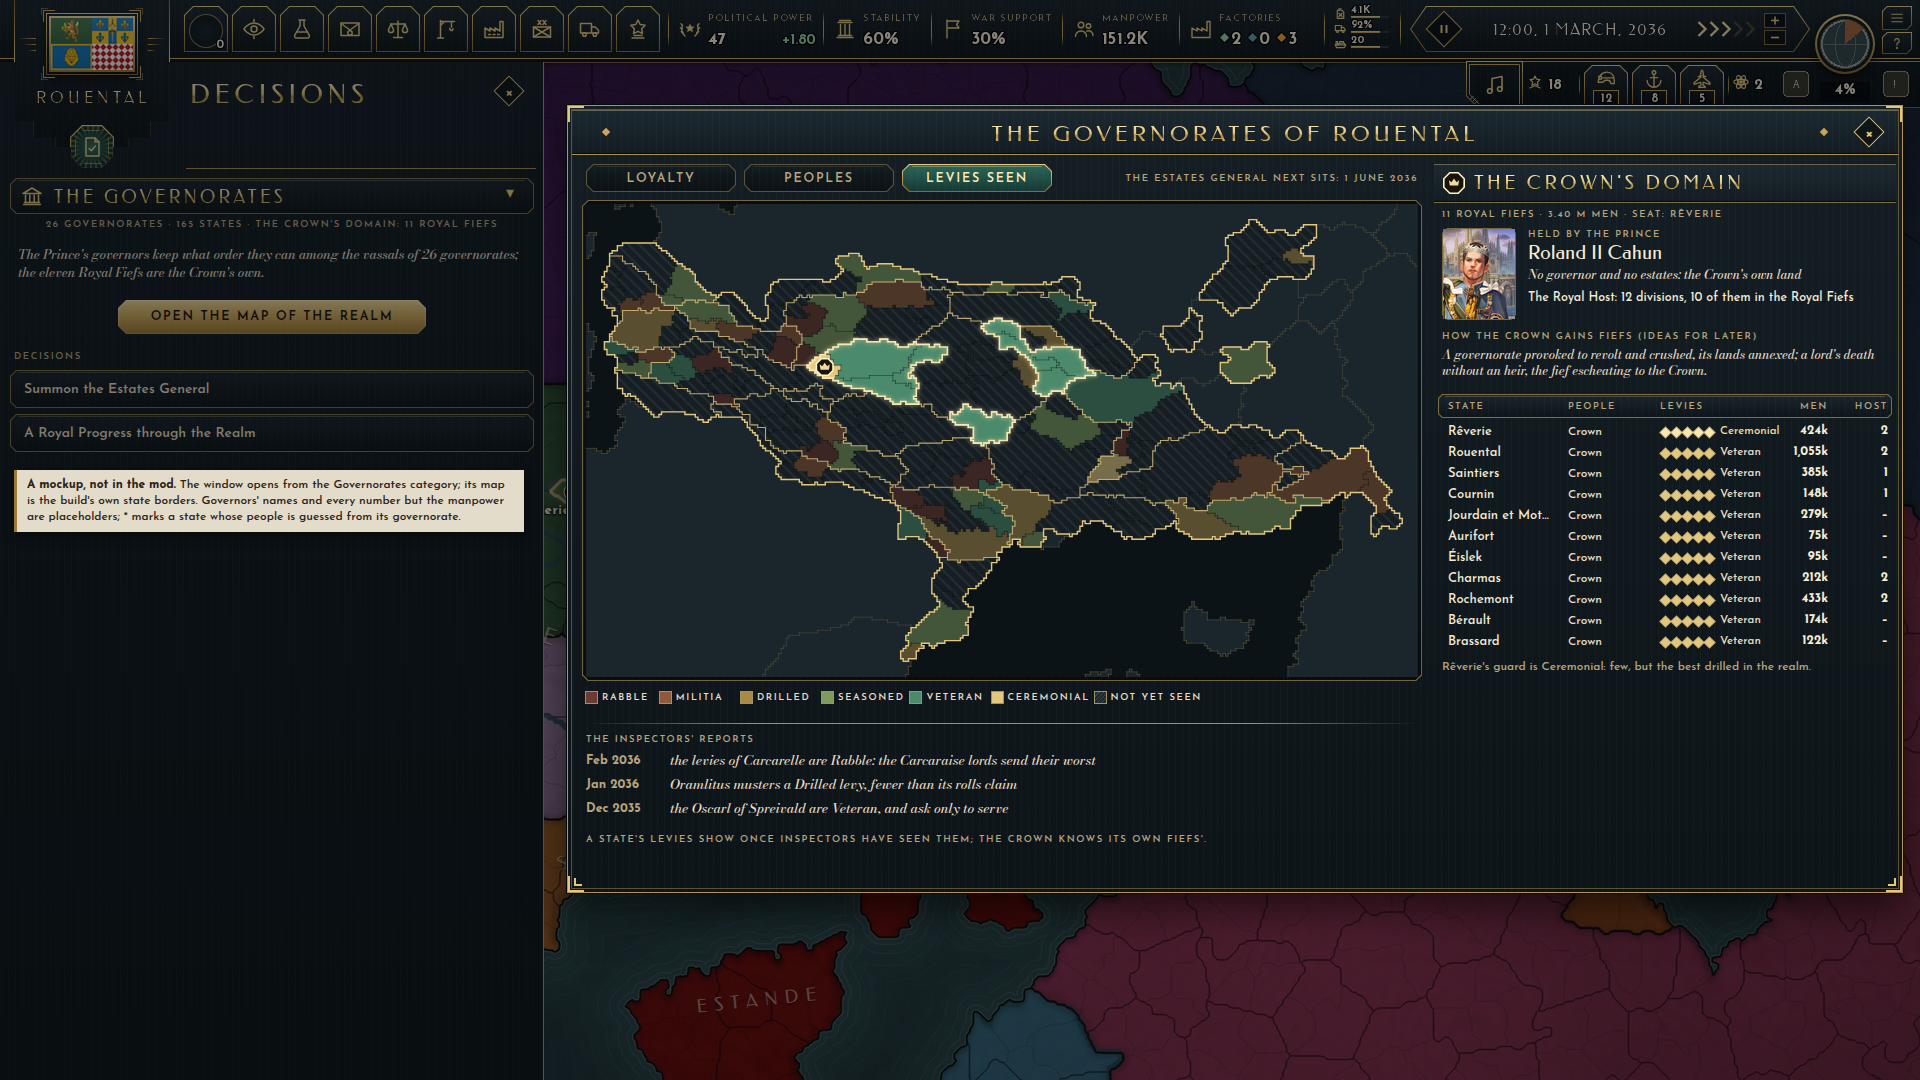
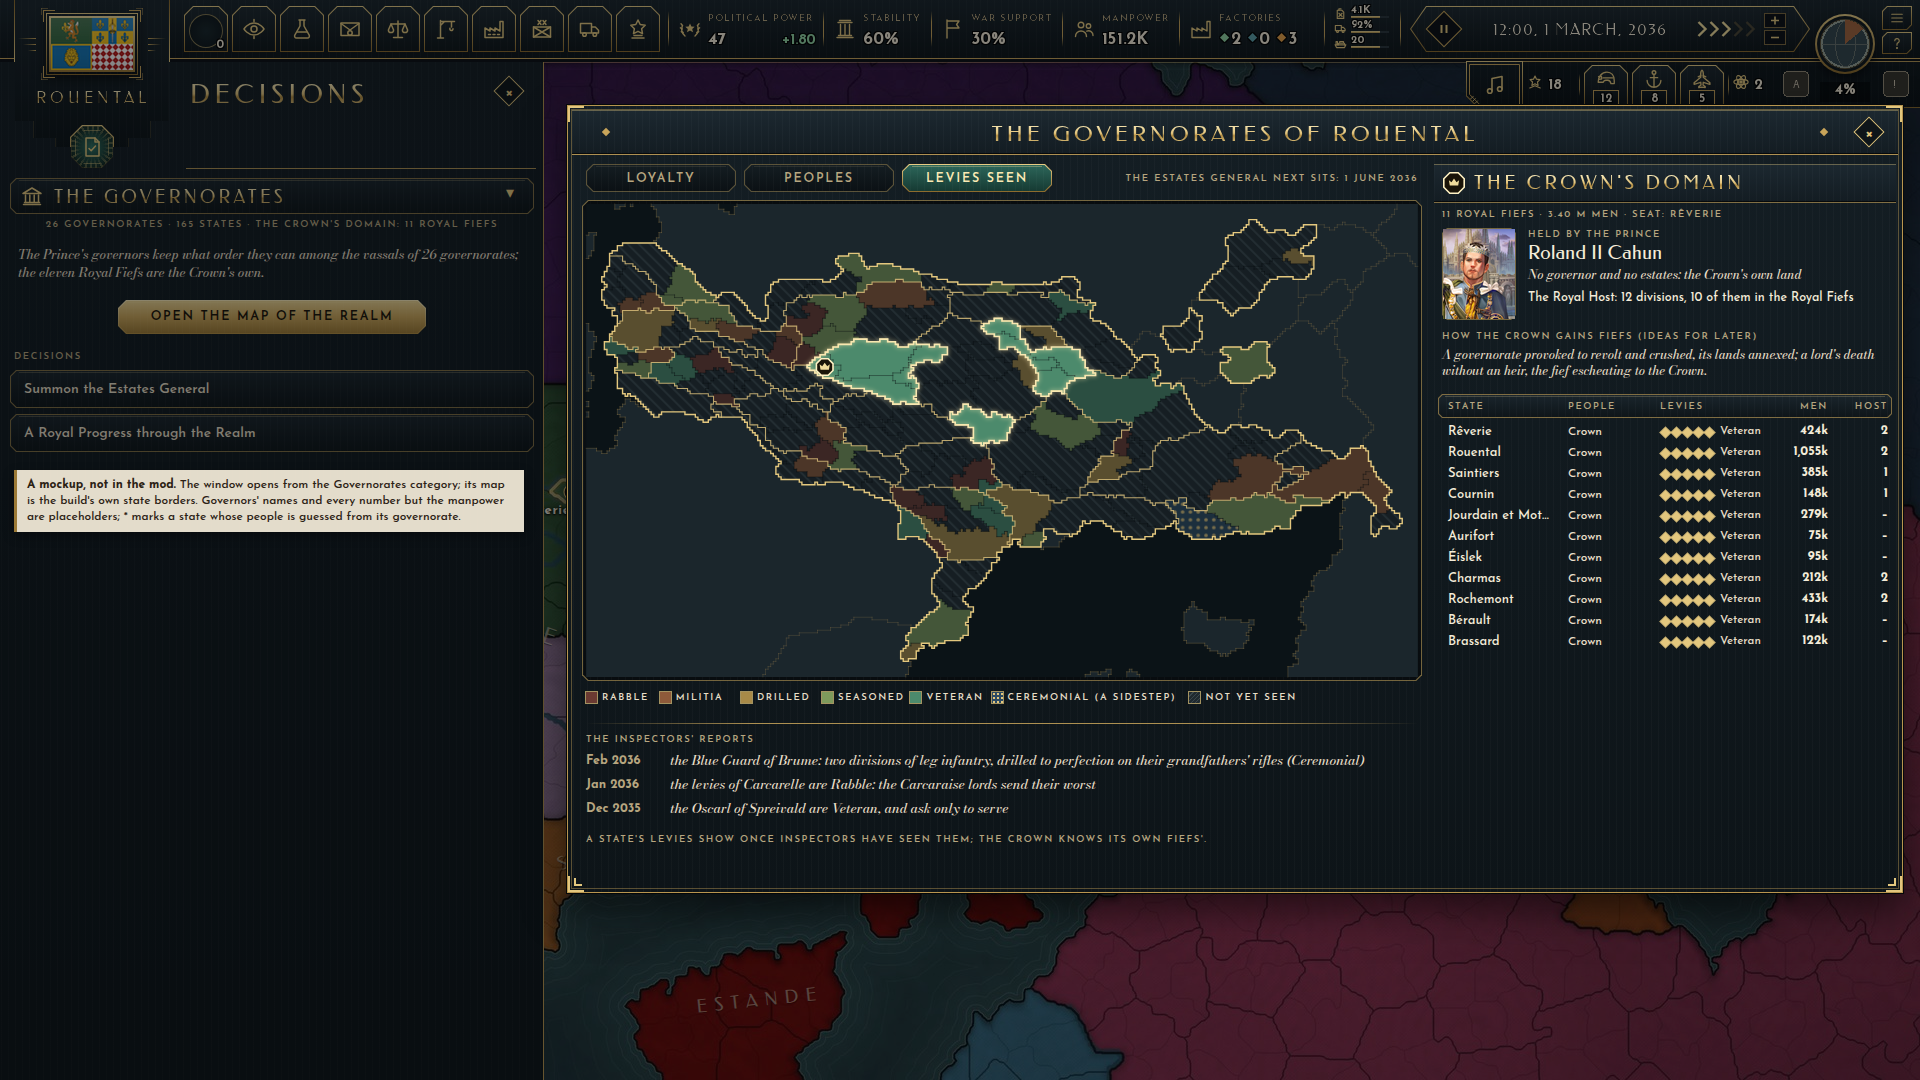
Governorates: the Nataine, the Natin, ceremonial corps as a sidestep (the Blue Guard of Brume)
The Nataine proud and prickly (-10 in the mockups' sample loyalty), the
Chatois descended from Natin slaves, and a ceremonial corps a sidestep from
the levy ladder: few, elite-trained, poorly equipped. A fourth window mockup,
Graisivaudan inspected, Grand Brume's Blue Guard.

Claude-Session: https://claude.ai/code/session_01TG83F4TvroUcXdi7eqNhMG

diff --git a/deco_ui/art/proposals/governorates/make2.py b/deco_ui/art/proposals/governorates/make2.py
@@ -9,7 +9,9 @@ Three screens at 1920 x 1080: the window opened from the decisions tab over the 
 state borders (realm.py), seen three ways (loyalty, peoples, the levies the inspectors have seen):
   governorates_window_carcarelle.png   loyalty; Carcarelle selected (the Carcaraise, Defiant; two states inspected)
   governorates_window_crepuscule.png   peoples; Crépuscule selected (governed by its own Prince, by law)
-  governorates_window_crown.png        levies; the Crown's Domain selected (Rêverie's ceremonial guard)
+  governorates_window_graisivaudan.png levies; Graisivaudan selected, inspected throughout (Grand Brume's Blue Guard:
+                                       a ceremonial corps, a sidestep from the ladder)
+  governorates_window_crown.png        levies; the Crown's Domain selected
 Not in the mod; governors' names and every number but the manpower are placeholders.
 
     CHROMIUM_PATH=/opt/pw-browsers/chromium python3 make2.py   (after a build: reads build/valsora_test)
@@ -84,7 +86,9 @@ def legend(lens, y):
     elif lens == "peoples":
         items = [(v[1], v[0]) for v in RM.PEOPLES.values()]
     else:
-        items = list(zip(RM.LEVY_COLOURS, RM.LEVY)) + [("repeating-linear-gradient(-45deg,#3A464C 0 .8px,#20292E .8px 3px)", "Not yet seen")]
+        items = list(zip(RM.LEVY_COLOURS, RM.LEVY)) + [
+            ("radial-gradient(circle,#E3C77E 0 1.2px,#2C4A63 1.4px) 0 0/4px 4px", "Ceremonial (a sidestep)"),
+            ("repeating-linear-gradient(-45deg,#3A464C 0 .8px,#20292E .8px 3px)", "Not yet seen")]
     if lens != "levies":
         items.append(("repeating-linear-gradient(45deg,#C9A55A 0 1.1px,#6E5626 1.1px 3px)", "Royal Fief"))
     rows = [[]]
@@ -107,8 +111,9 @@ def lower_strip(lens, y):
     out = fade_rule(MX, y, MX + 832)
     if lens == "levies":
         out += label(MX, y + 12, "The inspectors' reports", 9.5)
-        reports = [("Feb 2036", "Carcarelle", "the levies of Carcarelle are Rabble: the Carcaraise lords send their worst"),
-                   ("Jan 2036", "Oramlitus", "Oramlitus musters a Drilled levy, fewer than its rolls claim"),
+        reports = [("Feb 2036", "Grand Brume", "the Blue Guard of Brume: two divisions of leg infantry, drilled to perfection "
+                    "on their grandfathers' rifles (Ceremonial)"),
+                   ("Jan 2036", "Carcarelle", "the levies of Carcarelle are Rabble: the Carcaraise lords send their worst"),
                    ("Dec 2035", "Spreivald", "the Oscarl of Spreivald are Veteran, and ask only to serve")]
         for i, (d, where, s) in enumerate(reports):
             out += value(MX, y + 32 + i * 24, d, 12.5, LABEL, w=80) + text(MX + 84, y + 31 + i * 24, s, 13.5, CREAM2,
@@ -207,10 +212,13 @@ def states_table(sids, y, picked, sel_known, kind="Vassals"):
         p = P[sid]
         pn = RM.PEOPLES[p][0] if p in RM.PEOPLES else "Crown"
         out += text(CX + 126, y + 4, pn + ("*" if sid in guessed else ""), 12, CREAM2 if not lit else col, w=90)
-        if RM.inspected(sid, sel_known):
+        if RM.inspected(sid, sel_known) and name in RM.CEREMONIAL:
+            out += box(CX + 218, y + 1, 104, 17, "box-shadow:inset 0 0 0 1px #E3C77E;background:#1E3446")
+            out += text(CX + 218, y + 4, "Ceremonial", 11.5, "#F1DC9C", w=104, align="center", font="fed", track=.1, caps=True)
+        elif RM.inspected(sid, sel_known):
             q = RM.levy(sid)
-            out += M.pips(CX + 220, y + 7, min(q, 4) + 1, lit=("#F8E7B0" if q == 5 else "#E3C77E"))
-            out += text(CX + 278, y + 4, RM.LEVY[q], 11.5, "#F1DC9C" if q == 5 else (CREAM2 if not lit else col), w=60)
+            out += M.pips(CX + 220, y + 7, q + 1)
+            out += text(CX + 278, y + 4, RM.LEVY[q], 11.5, CREAM2 if not lit else col, w=60)
         else:
             out += text(CX + 220, y + 4, "Unknown", 12, "rgba(183,166,128,.7)", w=100, font="bod", weight=500)
         out += value(CX + 330, y + 3, f"{st[sid]['manpower'] / 1000:,.0f}k", 12.5, col, w=56, align="right")
@@ -247,6 +255,14 @@ def card_governorate(g, picked, known):
     out += peoples_row(G, y + 80)
     t, y = states_table(G["states"], y + 122, picked, known)
     out += t
+    for sid in G["states"]:
+        name = R["st"][sid]["name"]
+        if name in RM.CEREMONIAL and RM.inspected(sid, known):
+            corps, what = RM.CEREMONIAL[name]
+            corps = "the" + corps[3:] if corps.startswith("The ") else corps
+            out += text(CX, y + 4, f"{name} keeps {corps}: {what[0].lower() + what[1:]}.", 12, "#F1DC9C", w=CW, font="bod",
+                        weight=500, lh=1.3)
+            y += 36
     out += actions(y + 8, ("Send Inspectors", "Drill the Levies", "Demand Levies", "Grant Privileges", "Summon the Estates",
                            "Replace the Governor"), lit=("Send Inspectors",))
     return out
@@ -284,7 +300,6 @@ def card_crown():
     for i, sid in enumerate(fiefs):
         n = host.get(st[sid]["name"])
         out += value(CX + 392, y - 21 * (len(fiefs) - i) + 3, str(n) if n else "–", 12.5, CREAM, w=54, align="right")
-    out += text(CX, y + 8, "Rêverie's guard is Ceremonial: few, but the best drilled in the realm.", 12, LABEL, w=CW)
     return out
 
 
@@ -298,6 +313,11 @@ def screen(which):
     elif which == "crepuscule":
         g = "Crépuscule"
         body += realm_window("peoples", g, picked=None) + card_governorate(g, None, ())
+    elif which == "graisivaudan":
+        g = "Graisivaudan"
+        brume = next(x for x in G[g]["states"] if RM.realm()["st"][x]["name"] == "Grand Brume")
+        known = tuple(G[g]["states"])                      # inspectors have been through it all
+        body += realm_window("levies", g, picked=brume) + card_governorate(g, brume, known)
     else:
         body += realm_window("levies", crown=True) + card_crown()
     body += note(14, 470, "<b>A mockup, not in the mod.</b> The window opens from the Governorates category; its map is "
@@ -308,7 +328,7 @@ def screen(which):
 
 def main():
     outs = []
-    for which in ("carcarelle", "crepuscule", "crown"):
+    for which in ("carcarelle", "crepuscule", "graisivaudan", "crown"):
         body = screen(which)
         outs.append(render(body, os.path.join(HERE, f"governorates_window_{which}.png")))
     close_browser()

diff --git a/deco_ui/art/proposals/governorates/realm.py b/deco_ui/art/proposals/governorates/realm.py
@@ -103,16 +103,21 @@ ATTITUDES = [
     ("Mercantile", "Thinks in trade: pays coin sooner than it sends men."),
     ("Timorous", "Fearful of the Crown: yields to pressure, but its levies are poor."),
 ]
-LEVY = ["Rabble", "Militia", "Drilled", "Seasoned", "Veteran", "Ceremonial"]
-LEVY_COLOURS = ["#6B3A32", "#8E5A3A", "#A88A48", "#7E9A5C", "#4C8A6C", "#E3C77E"]
+LEVY = ["Rabble", "Militia", "Drilled", "Seasoned", "Veteran"]
+LEVY_COLOURS = ["#6B3A32", "#8E5A3A", "#A88A48", "#7E9A5C", "#4C8A6C"]
+# a ceremonial corps: a sidestep from the ladder, not a rung on it (the author, 2026-10-21, night: "Ceremonial units
+# would be poorly equipped, but highly trained. For example "The Blue Guard of Brume" might only be two or three
+# divisions of leg infantry, but at elite experience")
+CEREMONIAL = {"Grand Brume": ("The Blue Guard of Brume", "Two or three divisions of leg infantry: elite in their drill, "
+                              "poor in their arms")}
 # Rouental's peoples, the fief list's cultural groups (source/names/rouental_fiefs.txt): display name, colour on the
 # peoples' map, a loyalty modifier, a line of lore. The four with lore and their leanings are the author's (2026-10-21,
 # night); the others' modifiers are 0 until the author says
 PEOPLES = {
     "Carcasonnaise": ("Carcaraise", "#A2493B", -30, "Hold Carcarelle the true heart of Reibonne's culture: an old enmity with Rêverie"),
-    "Nataine": ("Nataine", "#8A6BA0", 0, "Descendants of the Natin empire's invaders, settled in Rouental"),
+    "Nataine": ("Nataine", "#8A6BA0", -10, "Descendants of the Natin invaders: proud, prickly, never wholly Rouentaise"),
     "Oscarl": ("Oscarl", "#3F7F6E", 25, "Fiercely loyal, grateful to have been allowed to settle in Rouental"),
-    "Chatois": ("Chatois", "#7FA06A", 30, "Raised to lordship for helping throw the invaders back: ever loyal"),
+    "Chatois": ("Chatois", "#7FA06A", 30, "Descendants of Natin slaves, raised to lordship for helping throw the invaders back: ever loyal"),
     "Conflans": ("Conflans", "#8C8A4E", 0, ""),
     "Recolt": ("Recolt", "#B07A3A", 0, ""),
     "Northmarch": ("Northmarch", "#5E8E6E", 0, ""),
@@ -227,8 +232,6 @@ def governorates():
 def levy(sid):
     R = realm()
     name = R["st"][sid]["name"]
-    if name == "Rêverie" or name.startswith("Ligue"):
-        return 5                                            # Ceremonial: a city's few, very well drilled
     if sid in R["royal"]:
         return 4
     return h(name + "levy", 5)
@@ -309,7 +312,9 @@ def map_svg(scale, select_gov=None, select_state=None, crown=False, lens="loyalt
         if lens == "peoples":
             return ("royal" if s in royal else "p:" + P[s]) + mark
         if lens == "levies":
-            return (f"q:{levy(s)}" if inspected(s, sel) else "unknown") + mark
+            if not inspected(s, sel):
+                return "unknown" + mark
+            return ("ceremonial" if st[s]["name"] in CEREMONIAL else f"q:{levy(s)}") + mark
         return ("royal" if s in royal else "g:" + gov[s]) + mark
 
     def colour(k):
@@ -320,7 +325,7 @@ def map_svg(scale, select_gov=None, select_state=None, crown=False, lens="loyalt
             return PEOPLES[k[2:]][1]
         if k.startswith("q:"):
             return LEVY_COLOURS[int(k[2:])]
-        return {"royal": "url(#crown)", "unknown": "url(#unknown)"}[k]
+        return {"royal": "url(#crown)", "unknown": "url(#unknown)", "ceremonial": "url(#ceremonial)"}[k]
 
     def edge_cls(p, q):
         ip, iq = p in gov, q in gov
@@ -341,6 +346,8 @@ def map_svg(scale, select_gov=None, select_state=None, crown=False, lens="loyalt
            '<rect width="3" height="3" fill="#6E5626"/><rect width="1.1" height="3" fill="#C9A55A"/></pattern>'
            '<pattern id="unknown" width="3" height="3" patternUnits="userSpaceOnUse" patternTransform="rotate(-45)">'
            '<rect width="3" height="3" fill="#20292E"/><rect width=".8" height="3" fill="#3A464C"/></pattern>'
+           '<pattern id="ceremonial" width="3" height="3" patternUnits="userSpaceOnUse">'
+           '<rect width="3" height="3" fill="#2C4A63"/><circle cx="1.5" cy="1.5" r=".7" fill="#E3C77E"/></pattern>'
            '<filter id="glow" x="-20%" y="-20%" width="140%" height="140%"><feGaussianBlur stdDeviation=".8"/></filter></defs>',
            f'<rect width="{W}" height="{H}" fill="#0B1317"/>']
     if "other" in fills:

diff --git a/deco_ui/art/proposals/governorates/README.md b/deco_ui/art/proposals/governorates/README.md
@@ -14,7 +14,8 @@ sessions; levy quality hidden until inspectors are sent; a "ceremonial" levy ste
 |---|---|
 | `governorates_window_carcarelle.png` | The window opened from the decisions tab, the loyalty view: Carcarelle selected (the Carcaraise, Defiant: the loyalty's parts listed), a governor of the Prince's court, Proud estates, two of its states' levies seen by inspectors, the rest unknown; the four peoples the author has written of under the map |
 | `governorates_window_crepuscule.png` | The peoples view (every state's people, from the fief list's cultural groups): Crépuscule selected, governed by its own Prince by law |
-| `governorates_window_crown.png` | The levies view (only what inspectors have seen; the Crown's own fiefs always known): the Crown's Domain selected, Rêverie's guard Ceremonial; the inspectors' reports |
+| `governorates_window_graisivaudan.png` | The levies view (only what inspectors have seen; the Crown's own fiefs always known): Graisivaudan selected, inspected throughout, Grand Brume keeping the Blue Guard of Brume, a ceremonial corps (a sidestep from the ladder, not a rung: "poorly equipped, but highly trained"); the inspectors' reports |
+| `governorates_window_crown.png` | The levies view, the Crown's Domain selected: the eleven Royal Fiefs, held by the Prince, the Royal Host's divisions in them |
 
 **Version 1** (the first answers), `make.py`: the same in the decisions panel itself.
 
@@ -34,7 +35,7 @@ edges, so every line is a state border of the game (no rough shapes); `make.py` 
 Placeholders, not the author's: the governors' names (version 1: a first name and the seat's fief; version 2: a fief from
 elsewhere, since governors are the Prince's courtiers or the Estates General's picks), loyalty (version 2: 50, the
 peoples' leanings the author gave, the estates' attitude, the governor, and chance), the estates' attitudes (the author's
-four and Claude's four more: `realm.ATTITUDES`), levy quality (`realm.LEVY`, a sixth step Ceremonial), which states the
+four and Claude's four more: `realm.ATTITUDES`), levy quality (`realm.LEVY`, five rungs; a ceremonial corps a sidestep from them, `realm.CEREMONIAL`, the author's Blue Guard of Brume), which states the
 inspectors have seen, the reports. Real: the borders, the states and their names, manpower, the vassals' count, each
 state's people (the fief list's cultural group of the fief it is named for; 17 states named for no listed fief take
 their governorate's commonest, marked *), the Royal Fiefs, the Royal Host's stations.

diff --git a/docs/DECISIONS.md b/docs/DECISIONS.md
@@ -229,14 +229,19 @@ Moved out of `CLAUDE.md` word for word on 2026-10-17 (`CLAUDE.md` keeps one line
     enmity with the government in Rêverie, as they see Carcarelle as the true heart of culture in Reibonne. Likewise,
     the Nataine people are descendants of invaders from the Natin empire that settled in Rouental. Meanwhile, the
     Oscarl are fiercely loyal and grateful for being allowed to settle in Rouental, and the Chatois are the descendants
-    of Nation slaves raised to lordship for their help in throwing back the invaders, and are ever loyal."
+    of Nation slaves raised to lordship for their help in throwing back the invaders, and are ever loyal." ("Yes, I
+    meant Natin.") The Nataine "aren't as quarrelsome as the Carcaraise, nor as numerous, but they are proud, refuse to
+    integrate fully into Rouentaise culture, and can be prickly."
   - **The estates' attitudes change at their sessions** ("I like attitudes switching with estate sessions though,
     that's really good"); more attitudes to come from the author once the current eight each have something
     interesting to do.
   - **Levy quality is hidden until inspectors are sent** ("I LOVE the levy quality being hidden until you send
     inspectors"); its steps (Rabble, Militia, Drilled, Seasoned, Veteran) "good for now, but could do with a rework.
     After all, a city state's ceremonial crossbow corps might be small, but they could be very well trained. Maybe a
-    late "ceremonial" category?"; better-trained levies by an action or later by the focus tree.
+    late "ceremonial" category?"; then: "I was more thinking of it as a sidestep rather than another rung on the
+    ladder. Ceremonial units would be poorly equipped, but highly trained. For example "The Blue Guard of Brume" might
+    only be two or three divisions of leg infantry, but at elite experience"; better-trained levies by an action or
+    later by the focus tree.
   - **Governorates may revolt** ("I like the idea of governorates revolting, to be sure"); more Royal Fiefs by
     provoking a revolt and annexing, or a ruler's death.
   - **The civil war**: governorates choosing sides may suit another, more traditional civil war path, not the

diff --git a/dist/open_questions.md b/dist/open_questions.md
@@ -15,7 +15,7 @@ Rouental's groups (28: applied, `docs/NATIONS.md`, 2026-10-21, later still). Wha
 | 15 | the land regions' names: the drafts are in the mod now ("I'm fine with those for now, I'll edit them later"); change any in `dist/region_names_draft.md`'s last column | |
 | 25 | the tech tree: "I'm not really ready to start with the tech tree in earnest yet" | `docs/TECH_TREE_2036.md` |
 | 32 | the Vale of Reibonne's strategic region: with Hollier, Evriches and Seigne in South Montvallée and Selgrave, Lustiana and Lanzerac in North Montvallée, it holds only Guedelon and the island Brillagne, which don't touch (a region may be in two pieces, but the AI plans by regions). Guedelon into its neighbour's region (Côte d'Ambre's), Brillagne into the sea's nearest land region, or leave it? | |
-| 34 | the governorates' screen (`deco_ui/art/proposals/governorates/`, v2 a larger window): the Nataine's loyalty (the lore says who they descend from, not how they stand with Rêverie); the "Ceremonial" levy step (drawn as a sixth, above Veteran: right?); "Nation slaves" in the Chatois' lore: the Natin empire's slaves? | your notes |
+| 34 | the governorates' screen (`deco_ui/art/proposals/governorates/`, version 2 a larger window; the Nataine's leaning, Natin, and the ceremonial sidestep answered, in the mockups): what each of the eight attitudes does (Claude's ideas in the chat of 2026-10-21, night) and more attitudes; how a ceremonial corps is raised in play | your notes |
 | 33 | the groups' way back: "Be prepared for the posibility of returning to how it currently is though": the map before them is kept (`work/pre_groups_1021/`, and the commit before) until you say they stay | |
 
 New to look at:

diff --git a/docs/CONTENT.md b/docs/CONTENT.md
@@ -195,8 +195,9 @@ Aislada is the worked example of a built-out nation:
   The governor remains the crown appointee, and is responsible for trying their best to reign in the unruly vassals").
   The cultural groups are Rouental's peoples, and their loyalty differs: the Carcaraise (the list's "Carcasonnaise",
   renamed Carcarelle) resent Rêverie, holding Carcarelle the true heart of Reibonne's culture; the Nataine descend
-  from the Natin empire's invaders; the Oscarl are "fiercely loyal and grateful for being allowed to settle in
-  Rouental"; the Chatois, raised to lordship for helping throw the invaders back, "are ever loyal"
+  from the Natin empire's invaders, fewer and less quarrelsome than the Carcaraise but proud, prickly and never fully
+  Rouentaise; the Oscarl are "fiercely loyal and grateful for being allowed to settle in
+  Rouental"; the Chatois, descendants of Natin slaves raised to lordship for helping throw the invaders back, "are ever loyal"
   (`docs/DECISIONS.md`, the governorates' screen).
   The author will give each fief its title; per-fief levies wait for that. They give
   Rouental's name list noble surnames ("de Beaufort", "d'Aurifort") and its division
